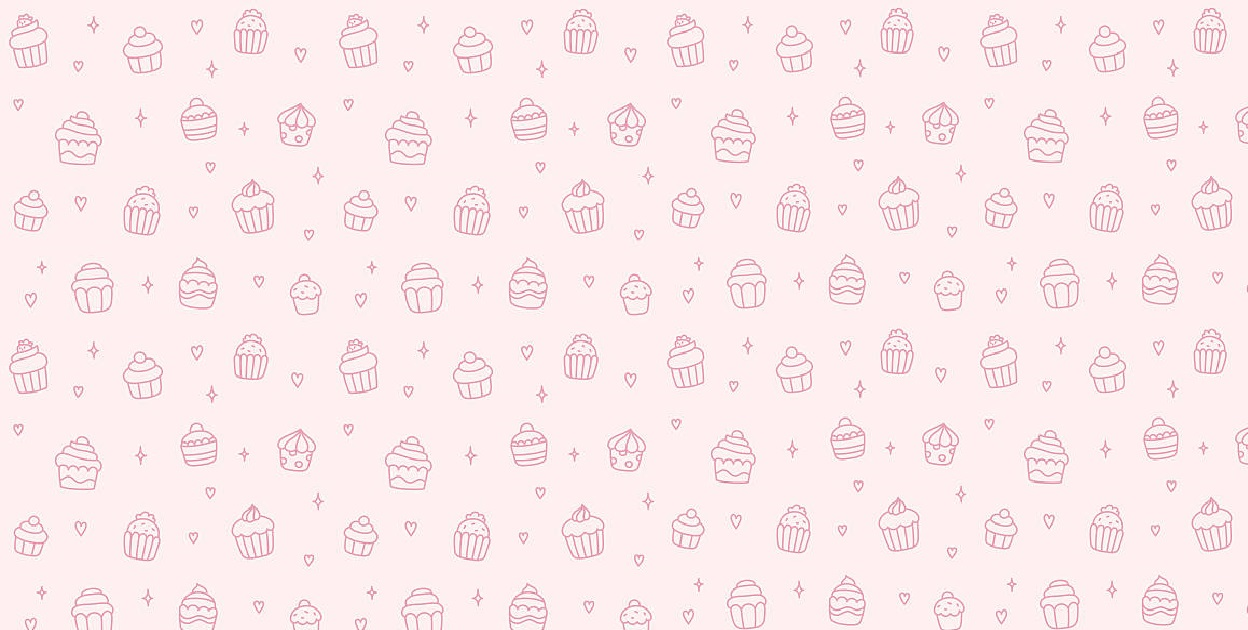
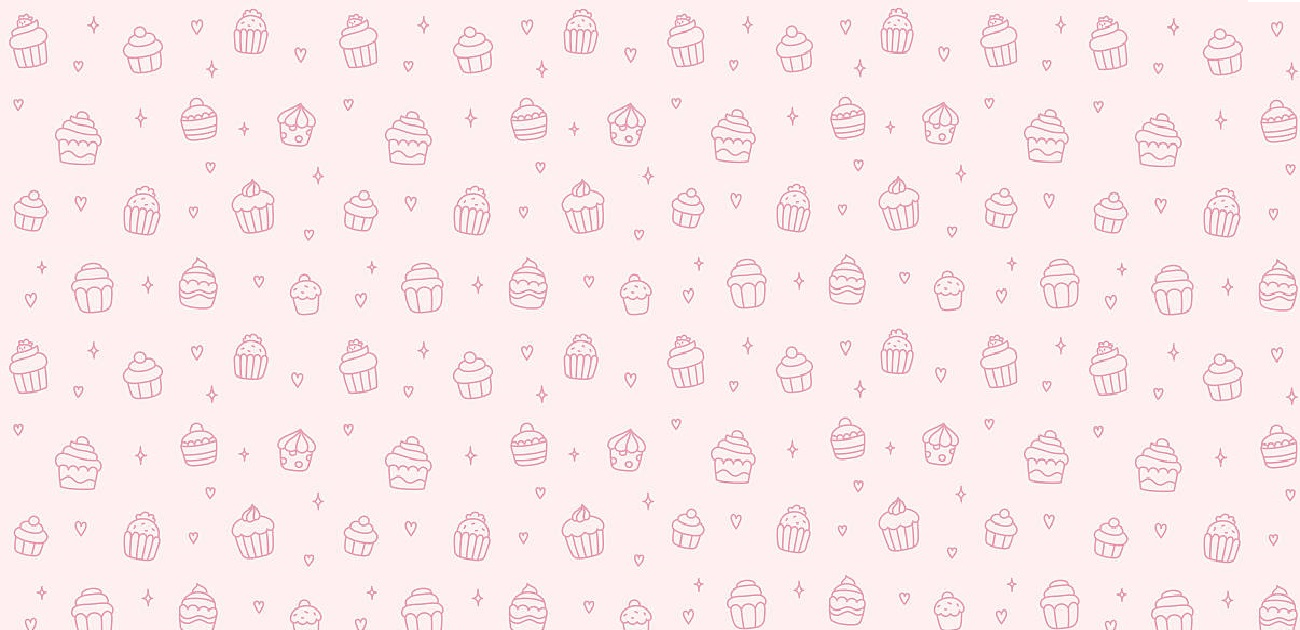
Add files via upload

diff --git a/reposteria_naomi_facturacion.py b/reposteria_naomi_facturacion.py
@@ -1,6 +1,9 @@
 from tkinter import *
+from pathlib import Path
 import random
 import datetime
+from tkinter import font
+
 
 from PIL import ImageTk,Image
 
@@ -11,8 +14,9 @@ precios_tortas = [35000, 28000, 25000 , 40000]
 precios_cupcakes = [800, 900 , 1000, 1100]
 precios_masas = [800 , 650 , 600 , 550 ]
 
-
-
+ruta_base = Path.home()
+ruta_imagen = ruta_base / "Naomi-Reposteria-main" / "fondo-definitivo.png"
+ruta_icon = ruta_base / "Naomi-Reposteria-main" / "icon.ico"
 def click_boton(numero):
     global operador
     operador = operador + numero
@@ -79,14 +83,14 @@ def total():
         p += 1
 
     sub_total = sub_total_tortas + sub_total_cupcakes + sub_total_masas
-    impuestos = sub_total * 0.10
-    total = sub_total + impuestos
+    recargo_tarjeta = sub_total * 0.10
+    total = sub_total + recargo_tarjeta
 
     var_costo_tortas.set(f'$ {round(sub_total_tortas, 2)}')
     var_costo_cupcakes.set(f'$ {round(sub_total_cupcakes, 2)}')
     var_costo_masas.set(f'$ {round(sub_total_masas, 2)}')
     var_subtotal.set(f'$ {round(sub_total, 2)}')
-    var_impuestos.set(f'$ {round(impuestos, 2)}')
+    var_recargo_tarjeta.set(f'$ {round(recargo_tarjeta, 2)}')
     var_total.set(f'$ {round(total, 2)}')
 
 
@@ -127,10 +131,10 @@ def recibo():
     texto_recibo.insert(END, f' Total Masas: \t\t\t{var_costo_masas.get()}\n')
     texto_recibo.insert(END, f'-' * 54 + '\n')
     texto_recibo.insert(END, f' Sub-total (Efectivo): \t\t\t{var_subtotal.get()}\n')
-    texto_recibo.insert(END, f' Recargo ( 10%): \t\t\t{var_impuestos.get()}\n')
+    texto_recibo.insert(END, f' Recargo ( 10%): \t\t\t{var_recargo_tarjeta.get()}\n')
     texto_recibo.insert(END, f' Total (Tarjeta): \t\t\t{var_total.get()}\n')
     texto_recibo.insert(END, f'*' * 47 + '\n')
-    texto_recibo.insert(END, 'Lo esperamos pronto')
+    texto_recibo.insert(END, 'Graicas por su compra, lo esperamos pronto :)')
 
 
 def guardar():
@@ -169,7 +173,7 @@ def resetear():
     var_costo_cupcakes.set('')
     var_costo_masas.set('')
     var_subtotal.set('')
-    var_impuestos.set('')
+    var_recargo_tarjeta.set('')
     var_total.set('')
 
 
@@ -177,7 +181,10 @@ def resetear():
 aplicacion = Tk()
 
 # tamaño de la ventana
-aplicacion.geometry('1248x630+0+0')
+aplicacion.geometry('1300x630+0+0')
+
+# Cambia el ícono de la aplicación
+aplicacion.iconbitmap(ruta_icon)
 
 # evitar maximizar
 aplicacion.resizable(0, 0)
@@ -189,7 +196,7 @@ aplicacion.title("Repostería Artesanal Naomi - Sistema de Facturacion")
 aplicacion.config(bg='#F6EBE7')
 
 #imagen de fondo
-image = PhotoImage(file=r"C:\Users\franc\Desktop\Archivos\Iresm\Algoritmos-y-estructura-de-datos\IEFI\fondo-definitivo.png")
+image = PhotoImage(file=str(ruta_imagen))
 
 background_label = Label(aplicacion, image=image)
 
@@ -200,51 +207,53 @@ panel_superior = Frame(aplicacion, bd=1, relief=FLAT,bg='#FFEFF0')
 panel_superior.pack(side=TOP)
 
 # etiqueta titulo
+
 etiqueta_titulo = Label(panel_superior, text='Sistema de Facturación ',
-                        font=('Dosis', 38), bg='#FFEFF0', width=27)
+                        font=('Georgia', 30), bg='#FFEFF0', width=27)
 etiqueta_titulo.grid(row=1, column=0)
 
 # etiqueta nombre
 
+fuente_cursiva = font.Font(family="Georgia", size=45, slant="italic")
 
 etiqueta_nombre = Label(panel_superior, text='Repostería artesanal Naomi',
-                        font=('Dosis', 58), bg='#FFEFF0', width=27)
+                        font= fuente_cursiva, bg='#FFEFF0', width=27)
 etiqueta_nombre.grid(row=0, column=0)
 
 
 # panel izquierdo
-panel_izquierdo = Frame(aplicacion, bd=1, relief=FLAT,bg='#FACAEE')
-panel_izquierdo.pack(side=LEFT)
+panel_izquierdo = Frame(aplicacion, bd=1, relief=FLAT,bg='#EB80FA')
+panel_izquierdo.pack(side=LEFT, padx=10)
 
 # panel costos
-panel_costos = Frame(panel_izquierdo, bd=1, relief=FLAT, bg='#FACAEE', padx=50)
+panel_costos = Frame(panel_izquierdo, bd=1, relief=FLAT, bg='#EB80FA')
 panel_costos.pack(side=BOTTOM)
 
-# panel comidas
-panel_tortas = LabelFrame(panel_izquierdo, text='Tortas', font=('Dosis', 19),
-                           bd=1, relief=FLAT)
+# panel tortas
+panel_tortas = LabelFrame(panel_izquierdo, text='Tortas', font=('Georgia', 19, 'bold', 'italic'),
+                           bd=1,bg='#FACAEE', relief=FLAT)
 panel_tortas.pack(side=LEFT)
 
-# panel bebidas
-panel_cupcakes_alfajores = LabelFrame(panel_izquierdo, text='Cupcakes/Alfajores', font=('Dosis', 19),
-                           bd=1, relief=FLAT)
+# panel cupcakes/alfajores
+panel_cupcakes_alfajores = LabelFrame(panel_izquierdo, text='Cupcakes/Alfajores', font=('Georgia', 19, 'bold', 'italic'),
+                           bd=1, bg='#FACAEE',relief=FLAT)
 panel_cupcakes_alfajores.pack(side=LEFT)
 
-# panel postres
-panel_masas = LabelFrame(panel_izquierdo, text='Variedad de Masas', font=('Dosis', 19),
-                           bd=1, relief=FLAT)
+# panel masas
+panel_masas = LabelFrame(panel_izquierdo, text='Variedad de Masas', font=('Georgia', 19, 'bold', 'italic'),
+                           bd=1, bg='#FACAEE', relief=FLAT)
 panel_masas.pack(side=LEFT)
 
 # panel derecha
-panel_derecha = Frame(aplicacion, bd=1, relief=FLAT)
-panel_derecha.pack(side=RIGHT)
+panel_derecha = Frame(aplicacion, bd=1, bg='#FFEFF0', relief=FLAT)
+panel_derecha.pack(side=RIGHT,padx=5)
 
 # panel recibo
-panel_recibo = Frame(panel_derecha, bd=1, relief=FLAT, bg='#FACAEE')
+panel_recibo = Frame(panel_derecha, bd=1, relief=FLAT, bg='#EB80FA')
 panel_recibo.pack()
 
 # panel botones
-panel_botones = Frame(panel_derecha, bd=1, relief=FLAT, bg='#FACAEE')
+panel_botones = Frame(panel_derecha, bd=1, relief=FLAT)
 panel_botones.pack()
 
 # lista de productos
@@ -263,9 +272,10 @@ for torta in lista_tortas:
     variables_torta[contador] = IntVar()
     torta = Checkbutton(panel_tortas,
                          text=torta.title(),
-                         font=('Dosis', 19, 'bold',),
+                         font=('Georgia', 19,),
                          onvalue=1,
                          offvalue=0,
+                         bg='#FACAEE',
                          variable=variables_torta[contador],
                          command=revisar_check)
 
@@ -279,7 +289,7 @@ for torta in lista_tortas:
     texto_torta[contador] = StringVar()
     texto_torta[contador].set('0')
     cuadros_torta[contador] = Entry(panel_tortas,
-                                     font=('Dosis', 18, 'bold'),
+                                     font=('Georgia', 18),
                                      bd=1,
                                      width=6,
                                      state=DISABLED,
@@ -288,7 +298,7 @@ for torta in lista_tortas:
                                   column=1)
     contador += 1
 
-# generar items bebida
+# generar items cupackes/Alf
 variables_cupcakes = []
 cuadros_cupcakes = []
 texto_cupcakes = []
@@ -299,8 +309,9 @@ for cupcake in lista_cupcakes_alfajores:
     variables_cupcakes[contador] = IntVar()
     cupcake = Checkbutton(panel_cupcakes_alfajores,
                          text=cupcake.title(),
-                         font=('Dosis', 19, 'bold',),
+                         font=('Georgia', 19),
                          onvalue=1,
+                         bg='#FACAEE',
                          offvalue=0,
                          variable=variables_cupcakes[contador],
                          command=revisar_check)
@@ -314,7 +325,7 @@ for cupcake in lista_cupcakes_alfajores:
     texto_cupcakes[contador] = StringVar()
     texto_cupcakes[contador].set('0')
     cuadros_cupcakes[contador] = Entry(panel_cupcakes_alfajores,
-                                     font=('Dosis', 18, 'bold'),
+                                     font=('Georgia', 18),
                                      bd=1,
                                      width=6,
                                      state=DISABLED,
@@ -324,7 +335,7 @@ for cupcake in lista_cupcakes_alfajores:
 
     contador += 1
 
-# generar items postres
+# generar items masas
 variables_masas = []
 cuadros_masas = []
 texto_masas = []
@@ -335,9 +346,10 @@ for masa in lista_masas:
     variables_masas[contador] = IntVar()
     masa = Checkbutton(panel_masas,
                           text=masa.title(),
-                          font=('Dosis', 19, 'bold'),
+                          font=('Georgia', 19),
                           onvalue=1,
                           offvalue=0,
+                          bg='#FACAEE',
                           variable=variables_masas[contador],
                          command=revisar_check)
     masa.grid(row=contador,
@@ -350,7 +362,7 @@ for masa in lista_masas:
     texto_masas[contador] = StringVar()
     texto_masas[contador].set('0')
     cuadros_masas[contador] = Entry(panel_masas,
-                                      font=('Dosis', 18, 'bold'),
+                                      font=('Georgia', 18,),
                                       bd=1,
                                       width=6,
                                       state=DISABLED,
@@ -365,42 +377,42 @@ var_costo_tortas = StringVar()
 var_costo_cupcakes = StringVar()
 var_costo_masas = StringVar()
 var_subtotal = StringVar()
-var_impuestos = StringVar()
+var_recargo_tarjeta = StringVar()
 var_total = StringVar()
 
 # etiquetas de costo y campos de entrada
 etiqueta_costo_torta = Label(panel_costos,
                               text='Costo Tortas',
                               font=('Dosis', 12, 'bold'),
-                              bg='#FACAEE')
+                              bg='#EB80FA')
 etiqueta_costo_torta.grid(row=0, column=0)
 
-texto_costo_comida = Entry(panel_costos,
+texto_costo_torta = Entry(panel_costos,
                            font=('Dosis', 12, 'bold'),
                            bd=1,
                            width=10,
                            state='readonly',
                            textvariable=var_costo_tortas)
-texto_costo_comida.grid(row=0, column=1, padx=41)
+texto_costo_torta.grid(row=0, column=1, padx=41)
 
 etiqueta_costo_cupcakes = Label(panel_costos,
                               text='Costo Cupcakes/Alf',
                               font=('Dosis', 12, 'bold'),
-                              bg='#FACAEE',)
+                              bg='#EB80FA',)
 etiqueta_costo_cupcakes.grid(row=1, column=0)
 
-texto_costo_bebida = Entry(panel_costos,
+texto_costo_cupcakes = Entry(panel_costos,
                            font=('Dosis', 12, 'bold'),
                            bd=1,
                            width=10,
                            state='readonly',
                            textvariable=var_costo_cupcakes)
-texto_costo_bebida.grid(row=1, column=1, padx=41)
+texto_costo_cupcakes.grid(row=1, column=1, padx=41)
 
 etiqueta_costo_masas = Label(panel_costos,
                               text='Costo Masas',
                               font=('Dosis', 12, 'bold'),
-                              bg='#FACAEE',)
+                              bg='#EB80FA',)
 etiqueta_costo_masas.grid(row=2, column=0)
 
 texto_costo_masas = Entry(panel_costos,
@@ -414,7 +426,7 @@ texto_costo_masas.grid(row=2, column=1, padx=41)
 etiqueta_subtotal = Label(panel_costos,
                               text='Subtotal (Efectivo)',
                               font=('Dosis', 12, 'bold'),
-                              bg='#FACAEE',)
+                              bg='#EB80FA',)
 etiqueta_subtotal.grid(row=0, column=2)
 
 texto_subtotal = Entry(panel_costos,
@@ -425,26 +437,26 @@ texto_subtotal = Entry(panel_costos,
                            textvariable=var_subtotal)
 texto_subtotal.grid(row=0, column=3, padx=41)
 
-etiqueta_impuestos = Label(panel_costos,
+etiqueta_recargo = Label(panel_costos,
                               text='Recargo (Tarjeta 10%)',
                               font=('Dosis', 12, 'bold'),
-                              bg='#FACAEE')
-etiqueta_impuestos.grid(row=1, column=2)
+                              bg='#EB80FA')
+etiqueta_recargo.grid(row=1, column=2)
 
-texto_impuestos = Entry(panel_costos,
+texto_recargo = Entry(panel_costos,
                            font=('Dosis', 12, 'bold'),
                            bd=1,
                            width=10,
                            state='readonly',
-                           textvariable=var_impuestos)
-texto_impuestos.grid(row=1, column=3, padx=41)
+                           textvariable= var_recargo_tarjeta)
+texto_recargo.grid(row=1, column=3, padx=41)
 
-etiqueta_total = Label(panel_costos,
+etiqueta_total_tarjeta = Label(panel_costos,
                               text='Total (Tarjeta)',
                               font=('Dosis', 12, 'bold'),
-                              bg='#FACAEE',
+                              bg='#EB80FA',
                               )
-etiqueta_total.grid(row=2, column=2)
+etiqueta_total_tarjeta.grid(row=2, column=2)
 
 texto_total = Entry(panel_costos,
                            font=('Dosis', 12, 'bold'),
@@ -463,7 +475,7 @@ for boton in botones:
     boton = Button(panel_botones,
                    text=boton.title(),
                    font=('Dosis', 14, 'bold'),
-                   bg='#EB80FA',
+                   bg='#FFAFC7',
                    bd=1,
                    width=9)
 
